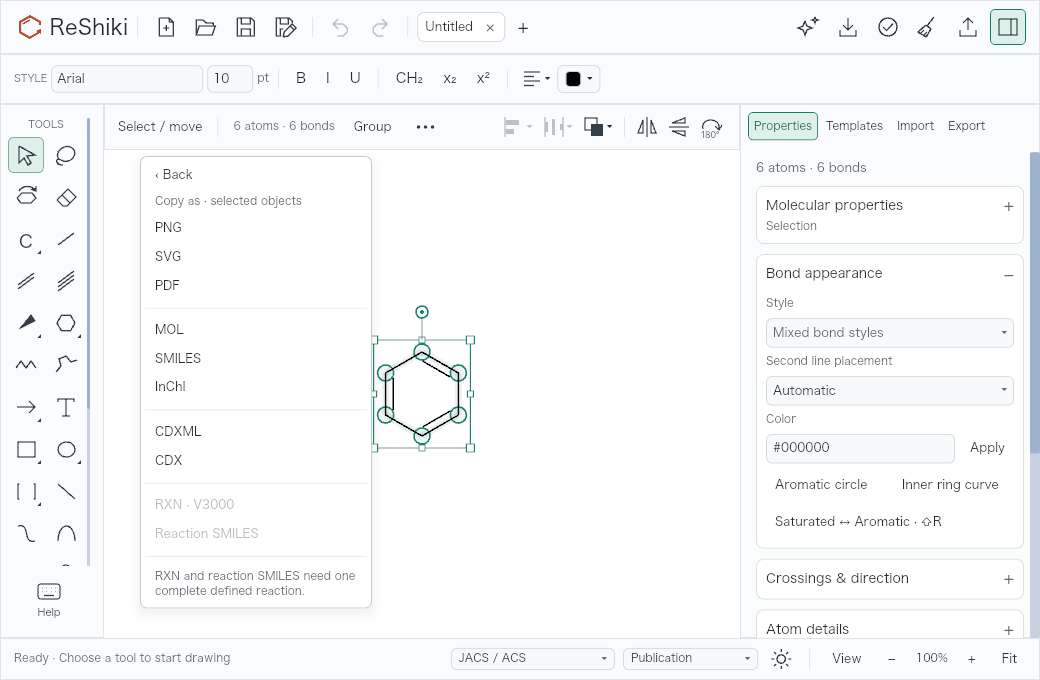
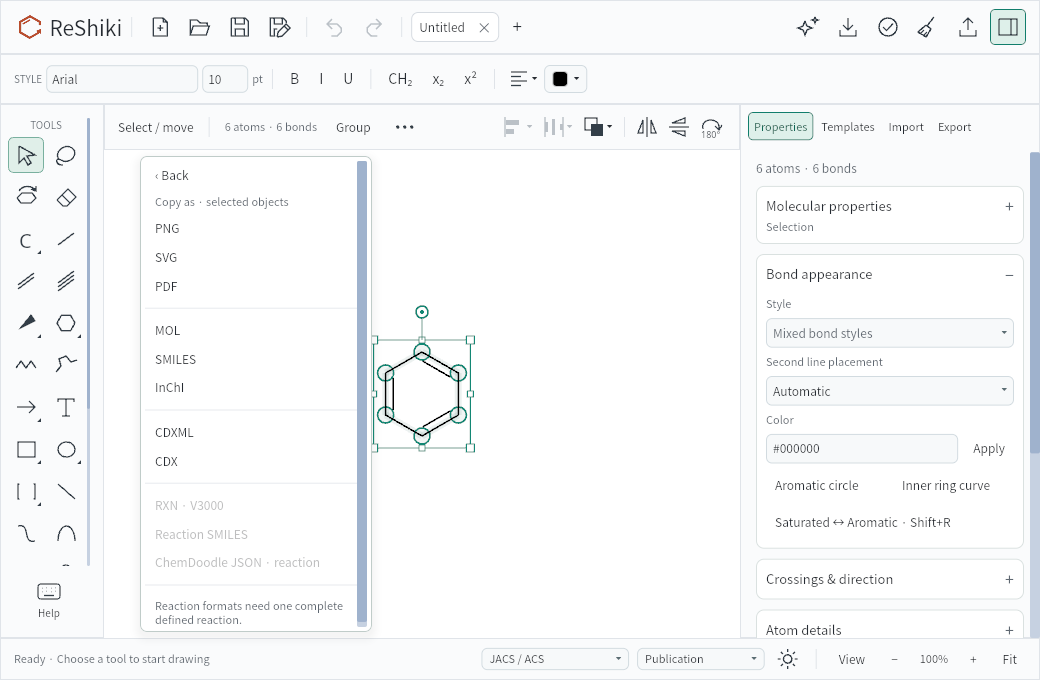
docs: publish final candidate renderer and platform evidence

diff --git a/docs/changes/issue-work-2026-10-02.md b/docs/changes/issue-work-2026-10-02.md
@@ -6,7 +6,7 @@ release qualification. The tests below used different, explicitly identified
 candidates. All changes are credited to **@Ameyanagi**; issue links remain in
 the [unreleased notes](../changes-unreleased.md) until pull requests exist.
 
-The four published PNGs are unchanged, inspected **renderer output**, not
+The five published PNGs are unchanged, inspected **renderer output**, not
 native desktop screenshots. Their sizes and SHA-256 values are in the
 [image manifest](../images/issue-work-2026-10-02/manifest.json).
 
@@ -41,24 +41,27 @@ that did not pass every CFF2 comparison.
 **Reusable caption:** Copy as names the copied scope and offers individual
 picture and chemical formats beside a compact, scrollable inspector.
 
-![Copy as for selected benzene at 1040 by 680; picture and chemical formats are visible, with reaction formats disabled and explained](../images/issue-work-2026-10-02/copy-as-1040.png)
+![Copy as for selected benzene at 1040 by 680; all eleven formats are visible, including disabled RXN, reaction SMILES and ChemDoodle reaction JSON with an explanation](../images/issue-work-2026-10-02/copy-as-1040.png)
 
 **Reusable caption:** Numeric transforms keep rotation, scale and size together,
 with advanced tilt controls under More.
 
 ![Selected benzene and the open Transform section at 1040 by 680, including size lock and More tilt fields](../images/issue-work-2026-10-02/transform-1040.png)
 
-These are real application-widget snapshots from **`de6e517`**, macOS 26.5.1
-ARM64, light interface, 100% canvas zoom, **1040 × 680 logical and PNG pixels**.
+These are real application-widget snapshots from **`ca4c52e`**, Arch Linux
+7.0.14 x86_64 / glibc 2.43, Rust 1.99.0, light interface, 100% canvas zoom,
+**1040 × 680 logical and PNG pixels**. The actual Iced/WGPU headless renderer
+ran under an isolated Xvfb server; this is not a native desktop capture.
 The fixture and state setup are in
 [`layout_snapshots.rs`](../../src/app/workspace/layout_snapshots.rs): select the
 generated benzene, then open Copy as or Transform → More. The renderer runs
 the actual widget layout and drawing path through `ui_layout_snapshots` with
 `RESHIKI_UI_QA_DIR`; it does not drive native pointer or keyboard input.
 
-The menu image contains the **earlier ten formats** and predates the eleventh
-ChemDoodle reaction option. It is an example of scope and disabled-format
-feedback, not evidence for the final expanded menu. These are after-state
+The final menu's **eleven formats** were inspected at both 1040 × 680 and
+1280 × 820. The compact menu has a scrollbar; its format rows and explanation
+fit inside the viewport. All three reaction formats are disabled because this
+fixture contains a molecule, not a defined reaction. These are after-state
 examples, not matched bug comparisons. The original cleanup's matched
 before/after pairs remain in [UI decluttering](ui-declutter.md).
 
@@ -77,6 +80,17 @@ the full checklist.
 
 **Reusable caption:** Enter drawing dimensions in pt, mm or cm while saved
 styles retain their physical size; unfinished input stays editable.
+
+![Nature drawing-style draft at 1280 by 820 with the Dimension units selector set to pt, plus label size, bond length and line width fields](../images/issue-work-2026-10-02/style-units-1280.png)
+
+This **`ca4c52e`** image uses the same Linux Iced/WGPU renderer run described
+above, at **1280 × 820** and 100% canvas zoom. The
+[`drawing_style_headless_snapshot` fixture](../../src/app/document_styles.rs)
+opens a Nature style draft for a six-membered ring with a carbonyl and NH label.
+The **Dimension units** control is visible with **pt selected**; this image
+does not show mm entry or demonstrate keyboard focus. The panel body scrolls
+while the Import, Export and Save footer remains visible. It is one selected
+image from the 11 generated style states.
 
 The native macOS `fb1bb6d` run exposed a focus loss after typing `5 m` in the
 Bond length field. A targeted **`771a186`** retest used the same pyrrole drawing:
@@ -100,22 +114,45 @@ See [drawing-style behavior](../drawing-styles.md).
 
 ## Interchange and nonvisual evidence
 
-| Issue                                                                                                                  | Implemented behavior and evidence                                                                                                                                                                                                                                                                                                                                                                                                                                                                 | Remaining boundary                                                                                                                                                                                                                                                                                  |
-| ---------------------------------------------------------------------------------------------------------------------- | ------------------------------------------------------------------------------------------------------------------------------------------------------------------------------------------------------------------------------------------------------------------------------------------------------------------------------------------------------------------------------------------------------------------------------------------------------------------------------------------------- | --------------------------------------------------------------------------------------------------------------------------------------------------------------------------------------------------------------------------------------------------------------------------------------------------- |
-| [#56](https://github.com/Ameyanagi/ReShiki/issues/56)                                                                  | Template saves distinguish lock contention from OS errors. An explicit-unlock guard releases an inherited file description on both successful and failed saves. Linux passed 2 guard tests, 6 library integration tests and 20 parallel repetitions (120 integration-test passes) after reproducing the inherited-lock race.                                                                                                                                                                      | These are transaction/process checks; a drawing comparison does not apply. The observed follow-up used `de6e517` plus `42769cb`, integrated as `f6fe3a4`.                                                                                                                                           |
-| [#107](https://github.com/Ameyanagi/ReShiki/issues/107)                                                                | Safe macOS print-info construction and explicit little-endian OLE descriptor encoding replace two unsafe operations. macOS `1404b1c` passed 3 native-crate tests and a 12-case PDF print matrix. Windows `8b7cecb` passed 12 native-crate tests, including actual `IDataObject::GetData` comparison with the 84-byte descriptor fixture.                                                                                                                                                          | Windows evidence is x64 Windows 11 Pro 26200, MSVC 19.43.34809 / SDK 22621, Rust 1.99.0. No new Office GUI, printer, ARM64 Windows or whole-issue unsafe-audit completion is implied. Output is intended to remain unchanged.                                                                       |
-| [#95](https://github.com/Ameyanagi/ReShiki/issues/95)                                                                  | [Manual SciFinder handoff](../scifinder-handoff.md) was exercised in authenticated Edge on macOS: generated ethanol MOL, stereo/abbreviation SMILES, and the exact production ChemDoodle reaction preparation output. The reaction retained ethanol as reactant and acetaldehyde as product, and the submitted search returned the expected transformation.                                                                                                                                       | Browser import/search evidence is separate from a native ReShiki menu-click/system-clipboard test, which was blocked by the capture failure. No direct CAS API integration or unsupported reaction-feature claim.                                                                                   |
-| [#109](https://github.com/Ameyanagi/ReShiki/issues/109), related [#83](https://github.com/Ameyanagi/ReShiki/issues/83) | The optional [LibreOffice ODF adapter](../../integrations/libreoffice/README.md#validation-status) passed installed-extension, real-renderer headless checks in Writer/Calc/Impress on macOS, Linux and Windows: two objects, two save/reopen cycles and all six cross-platform exchange directions preserved native data, stored PNG and intrinsic extent. Follow-up checks also verified host frame dimensions within 0.03 mm. Linux adds persistent, bounded multi-format clipboard ownership. | Real-worker checks reached `ca4c52e` on macOS/Linux; Windows used `7f06dcf`, with its final candidate pending. Scripted editor save-back is not actual ReShiki desktop editing. Native host paste/double-click/edit/copy-back remains separate. OOXML and ONLYOFFICE are outside the adapter scope. |
-| [#110](https://github.com/Ameyanagi/ReShiki/issues/110)                                                                | Copy as prepares a selection or whole-drawing snapshot, checks tab/revision/selection before publication, and serializes ordinary Copy with Copy as even if the source tab closes. Conversion failures leave the clipboard untouched. [Tests](../../src/app/clipboard.rs) cover stale and closed-tab results; format tests cover figures, molecules and reactions.                                                                                                                                | The prepared-payload SciFinder check does not prove the native menu action. The ten-format image above predates ChemDoodle.                                                                                                                                                                         |
+| Issue                                                                                                                  | Implemented behavior and evidence                                                                                                                                                                                                                                                                                                                                                                                                                                                                 | Remaining boundary                                                                                                                                                                                                                                                                                                         |
+| ---------------------------------------------------------------------------------------------------------------------- | ------------------------------------------------------------------------------------------------------------------------------------------------------------------------------------------------------------------------------------------------------------------------------------------------------------------------------------------------------------------------------------------------------------------------------------------------------------------------------------------------- | -------------------------------------------------------------------------------------------------------------------------------------------------------------------------------------------------------------------------------------------------------------------------------------------------------------------------- |
+| [#56](https://github.com/Ameyanagi/ReShiki/issues/56)                                                                  | Template saves distinguish lock contention from OS errors. An explicit-unlock guard releases an inherited file description on both successful and failed saves. Linux passed 2 guard tests, 6 library integration tests and 20 parallel repetitions (120 integration-test passes) after reproducing the inherited-lock race.                                                                                                                                                                      | These are transaction/process checks; a drawing comparison does not apply. The observed follow-up used `de6e517` plus `42769cb`, integrated as `f6fe3a4`.                                                                                                                                                                  |
+| [#107](https://github.com/Ameyanagi/ReShiki/issues/107)                                                                | Safe macOS print-info construction and explicit little-endian OLE descriptor encoding replace two unsafe operations. macOS `1404b1c` passed 3 native-crate tests and a 12-case PDF print matrix. Windows `8b7cecb` passed 12 native-crate tests, including actual `IDataObject::GetData` comparison with the 84-byte descriptor fixture.                                                                                                                                                          | Windows evidence is x64 Windows 11 Pro 26200, MSVC 19.43.34809 / SDK 22621, Rust 1.99.0. No new Office GUI, printer, ARM64 Windows or whole-issue unsafe-audit completion is implied. Output is intended to remain unchanged.                                                                                              |
+| [#95](https://github.com/Ameyanagi/ReShiki/issues/95)                                                                  | [Manual SciFinder handoff](../scifinder-handoff.md) was exercised in authenticated Edge on macOS: generated ethanol MOL, stereo/abbreviation SMILES, and the exact production ChemDoodle reaction preparation output. The reaction retained ethanol as reactant and acetaldehyde as product, and the submitted search returned the expected transformation.                                                                                                                                       | Browser import/search evidence is separate from a native ReShiki menu-click/system-clipboard test, which was blocked by the capture failure. No direct CAS API integration or unsupported reaction-feature claim.                                                                                                          |
+| [#109](https://github.com/Ameyanagi/ReShiki/issues/109), related [#83](https://github.com/Ameyanagi/ReShiki/issues/83) | The optional [LibreOffice ODF adapter](../../integrations/libreoffice/README.md#validation-status) passed installed-extension, real-renderer headless checks in Writer/Calc/Impress on macOS, Linux and Windows: two objects, two save/reopen cycles and all six cross-platform exchange directions preserved native data, stored PNG and intrinsic extent. Follow-up checks also verified host frame dimensions within 0.03 mm. Linux adds persistent, bounded multi-format clipboard ownership. | Final real-worker persistence and frame checks passed at `ca4c52e` on all three platforms; all six frame-aware exchanges also passed. Scripted editor save-back is not actual ReShiki desktop editing. Native host paste/double-click/edit/copy-back remains separate. OOXML and ONLYOFFICE are outside the adapter scope. |
+| [#110](https://github.com/Ameyanagi/ReShiki/issues/110)                                                                | Copy as prepares a selection or whole-drawing snapshot, checks tab/revision/selection before publication, and serializes ordinary Copy with Copy as even if the source tab closes. Conversion failures leave the clipboard untouched. [Tests](../../src/app/clipboard.rs) cover stale and closed-tab results; format tests cover figures, molecules and reactions.                                                                                                                                | The final eleven-row menu is verified by renderer output. The prepared-payload SciFinder check does not prove the native menu action or system clipboard flow.                                                                                                                                                             |
 
 Linux clipboard evidence includes **6 unit tests, 4 serial Xvfb protocol
 tests**, the actual application's `--clipboard-worker` process smoke, and an
 isolated harness compiling the production async wrapper for ownership after
 caller exit, cancellation and its ten-second timeout. The
 [transport contract](../../native/linux/README.md) documents payload, transfer
-and time limits. These are Linux/X11 protocol and pipe tests; no actual Linux
+and time limits. The final `ca4c52e` Linux run also passed 1,083 default tests
+(29 ignored), 41 captured-reference tests with the required helper enabled,
+and the two snapshot tests generating 11 style and 42 layout PNGs. These are
+Linux/X11 protocol, renderer and pipe tests; no actual Linux
 desktop or compositor-specific Wayland session was verified. A Wayland
 compositor must provide an allowed data-control protocol.
+
+The frozen **`ca4c52e`** executables used by the final real-renderer LibreOffice
+persistence and host-frame checks were:
+
+| Platform     | Executable SHA-256                                                 |
+| ------------ | ------------------------------------------------------------------ |
[3 lines of base64/hex data omitted]
+
+For [#62](https://github.com/Ameyanagi/ReShiki/issues/62), Defender completed
+exact-file scans of that same Windows executable and the InChI helper
[1 lines of base64/hex data omitted]
+with no detections. The before/after hashes, matching scan IDs and unchanged
+threat records were verified on Windows 11 Pro 25H2 x64, build 26200.9457,
+with product 4.18.26080.4, engine 1.1.26080.3 and signatures 1.459.510.0.
+Protection settings were unchanged. These are unsigned development files,
+not release installers: the result does not establish browser reputation,
+installation/upgrade behavior, Bitdefender behavior or closure of #62.
+See the [security-evidence contract](../windows-security-evidence.md).
 
 The immutable native macOS app receipts were:
 

diff --git a/docs/changes/ui-declutter-validation.md b/docs/changes/ui-declutter-validation.md
@@ -17,17 +17,19 @@ commits. They are not native desktop captures of the final tabbed interface.
 
 Targeted native macOS checks on `fb1bb6d`, and the `771a186` unit-input focus
 retest, are recorded in the [October 2 evidence summary](issue-work-2026-10-02.md).
-They do not complete this final-candidate matrix. Populate the table with the
+The same summary includes the final `ca4c52e` Linux headless renderer's Copy as
+and drawing-style examples. These checks do not complete this native
+final-candidate matrix. Populate the table with the
 exact integrated candidate and linked results after execution. A check that was
 unavailable stays **not run**; Windows CI cannot replace its native walkthrough
 or Office activation checks.
 
-| Run                 | Required coverage                                                           | Current result                                           |
-| ------------------- | --------------------------------------------------------------------------- | -------------------------------------------------------- |
-| macOS               | Two-size combined interface, keyboard/focus, supported ChemDraw repeat      | Not run on the final candidate                           |
-| Windows             | Two-size combined interface, keyboard/focus, EMF and Word/PowerPoint/Excel  | Not run on the final candidate                           |
-| Nightly performance | Help opening, gallery opening and loaded interactions, separately           | Not measured on the final candidate                      |
-| Linux               | Compatible UI/export smoke, including the Fedora font report when available | Not run; additional coverage, not a new #78 release gate |
+| Run                 | Required coverage                                                           | Current result                                                 |
+| ------------------- | --------------------------------------------------------------------------- | -------------------------------------------------------------- |
+| macOS               | Two-size combined interface, keyboard/focus, supported ChemDraw repeat      | Not run on the final candidate                                 |
+| Windows             | Two-size combined interface, keyboard/focus, EMF and Word/PowerPoint/Excel  | Not run on the final candidate                                 |
+| Nightly performance | Help opening, gallery opening and loaded interactions, separately           | Not measured on the final candidate                            |
+| Linux               | Compatible UI/export smoke, including the Fedora font report when available | Final headless renderer checked; native desktop/Fedora not run |
 
 For each run retain the commit, application version/Nightly run ID, executable
 SHA-256, build mode, OS/version/architecture, renderer, display scaling and

diff --git a/docs/changes-unreleased.md b/docs/changes-unreleased.md
@@ -30,6 +30,7 @@ See [ReShiki 0.10.0](changes-0.10.md) for the latest release notes.
   or cm while stored styles keep their physical size. Incomplete input retains
   focus so it can be finished before applying.
   [Details](drawing-styles.md#settings)
+  · [Dimension units image](images/issue-work-2026-10-02/style-units-1280.png)
   · [Native check](changes/issue-work-2026-10-02.md#physical-units-and-retained-input-focus-89)
   · [Issue #89](https://github.com/Ameyanagi/ReShiki/issues/89) · @Ameyanagi.
 
@@ -50,7 +51,7 @@ See [ReShiki 0.10.0](changes-0.10.md) for the latest release notes.
   formats for selected objects or the whole drawing. Stale preparation results
   cannot overwrite a newer ReShiki copy.
   [Formats and limits](clipboard.md)
-  · [Earlier menu image](images/issue-work-2026-10-02/copy-as-1040.png)
+  · [Menu image](images/issue-work-2026-10-02/copy-as-1040.png)
   · [Evidence and image provenance](changes/issue-work-2026-10-02.md#copy-as-and-compact-controls-110-78)
   · [Issue #110](https://github.com/Ameyanagi/ReShiki/issues/110) · @Ameyanagi.
 
